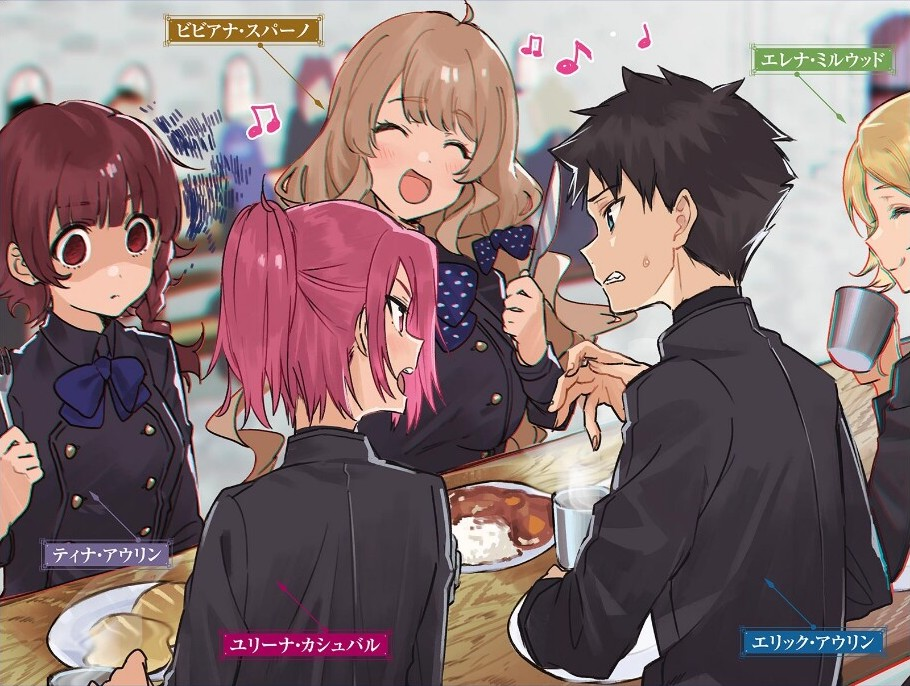
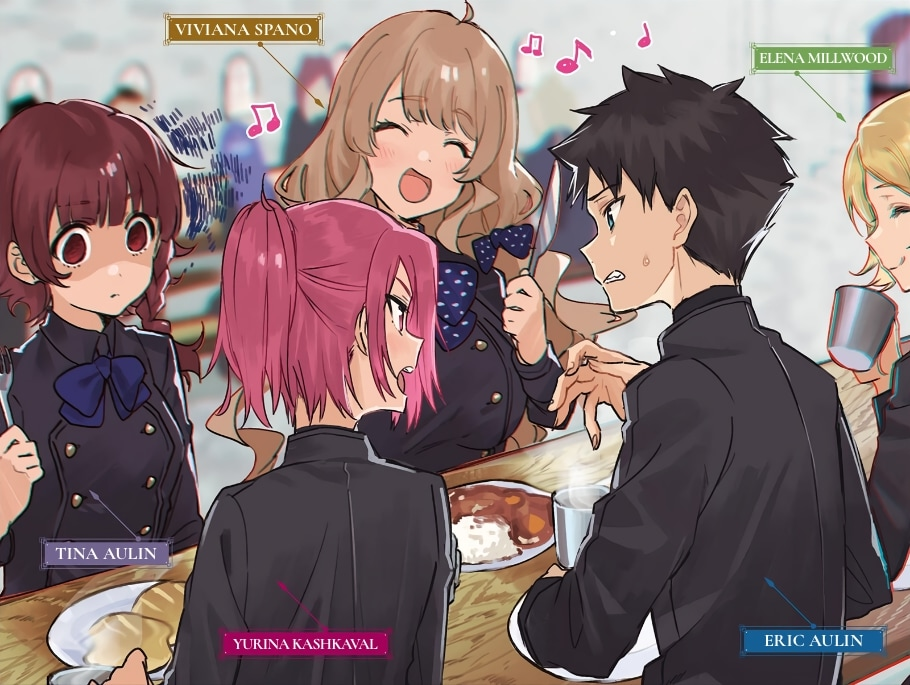
Prep work for Vol.2
- Book 2 Characters page
- Minor fixes on Ch.19

diff --git a/begonia.html b/begonia.html
@@ -1,0 +1,168 @@
+---
+layout: page
+title: Begonia
+description: Characters from Book 2.
+background: '/img/bg-names.jpg'
+---
+
+<div class="container">
+  <div class="row justify-content-md-center">
+    <div class="col-lg">
+      <h1>Kingdom of Begonia</h1>
+      <br>
+    </div>
+  </div>
+  <div class="row justify-content-md-center">
+    <div class="col-sm-12 col-lg-5">
+      <img src="/img/begonia/jeremias.jpg" class="figure-img img-fluid rounded" alt="Jeremias Astara">
+      <br><br>
+    </div>
+    <div class="col-sm-12 col-lg-7">
+      <dl class="row">
+        <dt class="col-sm-3">Name</dt>
+        <dd class="col-sm-9">Jeremias Astara</dd>
+
+        <dt class="col-sm-3">Japanese</dt>
+        <dd class="col-sm-9">
+          イェレミアス・アスタラ
+          <blockquote>I~eremiasu Asutara</blockquote>
+        </dd>
+        <dt class="col-sm-3 text-truncate">Profile</dt>
+        <dd class="col-sm-9">Guildmaster of the Knights of Begonia.</dd>
+      </dl>
+    </div>
+    <br>
+  </div>
+  <div class="row justify-content-md-center">
+    <div class="col-sm-12 col-lg-5">
+      <img src="/img/begonia/liberto.jpg" class="figure-img img-fluid rounded" alt="Liberto Corrales">
+      <br><br>
+    </div>
+    <div class="col-sm-12 col-lg-7">
+      <dl class="row">
+        <dt class="col-sm-3">Name</dt>
+        <dd class="col-sm-9">Liberto Corrales</dd>
+
+        <dt class="col-sm-3">Japanese</dt>
+        <dd class="col-sm-9">
+          リベルト・コラーレス
+          <blockquote>Riberuto Korāresu</blockquote>
+        </dd>
+        <dt class="col-sm-3 text-truncate">Profile</dt>
+        <dd class="col-sm-9">Vice guildmaster of the Knights of Begonia.</dd>
+      </dl>
+    </div>
+    <br>
+  </div>
+  <!-- <div class="row justify-content-md-center">
+    <div class="col-lg">
+      <h1>Other Characters</h1>
+      <br>
+    </div>
+  </div> -->
+  <div class="row justify-content-md-center">
+    <div class="col-sm-12 col-lg-5">
+      <img src="/img/begonia/leonardo.jpg" class="figure-img img-fluid rounded" alt="Leonardo Carlo Begonia">
+      <br><br>
+    </div>
+    <div class="col-sm-12 col-lg-7">
+      <dl class="row">
+        <dt class="col-sm-3">Name</dt>
+        <dd class="col-sm-9">Leonardo Carlo Begonia</dd>
+
+        <dt class="col-sm-3">Japanese</dt>
+        <dd class="col-sm-9">
+          レオナルド・カルロ・ベゴニア
+          <blockquote>Reonarudo Karuro Begonia</blockquote>
+        </dd>
+        <dt class="col-sm-3 text-truncate">Profile</dt>
+        <dd class="col-sm-9">The current King of Begonia.</dd>
+      </dl>
+    </div>
+    <br>
+  </div>
+  <div class="row justify-content-md-center">
+    <div class="col-sm-12 col-lg-5">
+      <img src="/img/begonia/anne.jpg" class="figure-img img-fluid rounded" alt="Anne Bendix">
+      <br><br>
+    </div>
+    <div class="col-sm-12 col-lg-7">
+      <dl class="row">
+        <dt class="col-sm-3">Name</dt>
+        <dd class="col-sm-9">Anne Bendix</dd>
+
+        <dt class="col-sm-3">Japanese</dt>
+        <dd class="col-sm-9">
+          アンネ・ベンディクス
+          <blockquote>An'ne Bendikusu</blockquote>
+        </dd>
+        <dt class="col-sm-3 text-truncate">Profile</dt>
+        <dd class="col-sm-9">Guildmaster of the Magic Knights of Begonia.</dd>
+      </dl>
+    </div>
+    <br>
+  </div>
+  <div class="row justify-content-md-center">
+    <div class="col-sm-12 col-lg-5">
+      <img src="/img/begonia/viviana.jpg" class="figure-img img-fluid rounded" alt="Viviana Spano">
+      <br><br>
+    </div>
+    <div class="col-sm-12 col-lg-7">
+      <dl class="row">
+        <dt class="col-sm-3">Name</dt>
+        <dd class="col-sm-9">Viviana Spano</dd>
+
+        <dt class="col-sm-3">Japanese</dt>
+        <dd class="col-sm-9">
+          ビビアナ・スパーノ
+          <blockquote>Bibiana Supāno</blockquote>
+        </dd>
+        <dt class="col-sm-3 text-truncate">Profile</dt>
+        <dd class="col-sm-9">Vice guildmaster of the Magic Knights of Begonia.</dd>
+      </dl>
+    </div>
+    <br>
+  </div>
+  <div class="row justify-content-md-center">
+    <div class="col-sm-12 col-lg-5">
+      <img src="/img/begonia/yurina.jpg" class="figure-img img-fluid rounded" alt="Yurina Kashkaval">
+      <br><br>
+    </div>
+    <div class="col-sm-12 col-lg-7">
+      <dl class="row">
+        <dt class="col-sm-3">Name</dt>
+        <dd class="col-sm-9">Yurina Kashkaval</dd>
+
+        <dt class="col-sm-3">Japanese</dt>
+        <dd class="col-sm-9">
+          ユリーナ・カシュバル
+          <blockquote>Yurīna Kashubaru</blockquote>
+        </dd>
+        <dt class="col-sm-3 text-truncate">Profile</dt>
+        <dd class="col-sm-9">Eric's (former) roommate in the Knights of Begonia, for a day.</dd>
+      </dl>
+    </div>
+    <br>
+  </div>
+  <div class="row justify-content-md-center">
+    <div class="col-sm-12 col-lg-5">
+      <img src="/img/begonia/elena.jpg" class="figure-img img-fluid rounded" alt="Elena Millwood">
+      <br><br>
+    </div>
+    <div class="col-sm-12 col-lg-7">
+      <dl class="row">
+        <dt class="col-sm-3">Name</dt>
+        <dd class="col-sm-9">Elena Millwood</dd>
+
+        <dt class="col-sm-3">Japanese</dt>
+        <dd class="col-sm-9">
+          エレナ・ミルウッド
+          <blockquote>Erena Miruuddo</blockquote>
+        </dd>
+        <dt class="col-sm-3 text-truncate">Profile</dt>
+        <dd class="col-sm-9">Eric's current roommate in the Knights of Begonia.</dd>
+      </dl>
+    </div>
+    <br>
+  </div>
+</div>

diff --git a/_layouts/home.html b/_layouts/home.html
@@ -48,24 +48,28 @@ layout: default
             {% assign actname = '' %}
             {% if category[0] == 'Volume 1' %}
               {% case tag[0] %}
+                {% when 'Act 0' %}
+                  {% assign actname = 'Prologue' %}
                 {% when 'Act 1' %}
-                  {% assign actname = ': The Beginnings After the Rebirth' %}
+                  {% assign actname = 'Act 1: The Beginnings After the Rebirth' %}
                 {% when 'Act 2' %}
-                  {% assign actname = ': The Fight After the Rebirth' %}
+                  {% assign actname = 'Act 2: The Fight After the Rebirth' %}
                 {% when 'Act 3' %}
-                  {% assign actname = ': The Departure After the Rebirth' %}
+                  {% assign actname = 'Act 3: The Departure After the Rebirth' %}
               {% endcase %}
             {% elsif category[0] == 'Volume 2' %}
               {% case tag[0] %}
+                {% when 'Act 0' %}
+                  {% assign actname = 'Prologue' %}
                 {% when 'Act 1' %}
-                  {% assign actname = ': Knights of the Kingdom of Begonia' %}
+                  {% assign actname = 'Act 1: Knights of the Kingdom of Begonia' %}
                 {% when 'Act 2' %}
-                  {% assign actname = ': Best Friend' %}
+                  {% assign actname = 'Act 2: Best Friend' %}
                 {% when 'Act 3' %}
-                  {% assign actname = ': Secret Mission' %}
+                  {% assign actname = 'Act 3: Secret Mission' %}
               {% endcase %}
             {% endif %}
-            <h4>{{ tag[0] }}{{ actname }}</h4>
+            <h4>{{ actname }}</h4>
             <ul>
               {% assign sorted_posts = tag[1] | sort: 'date' %}
               {% for post in sorted_posts %}
